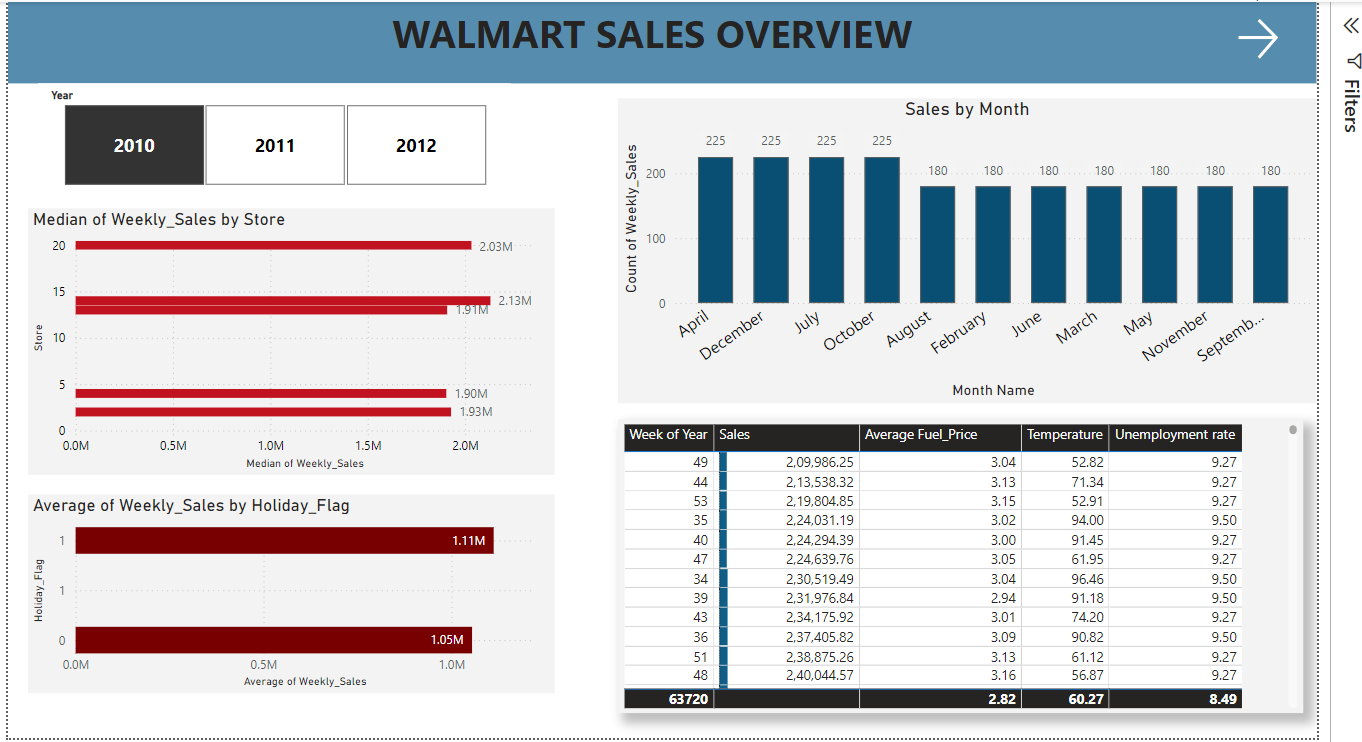
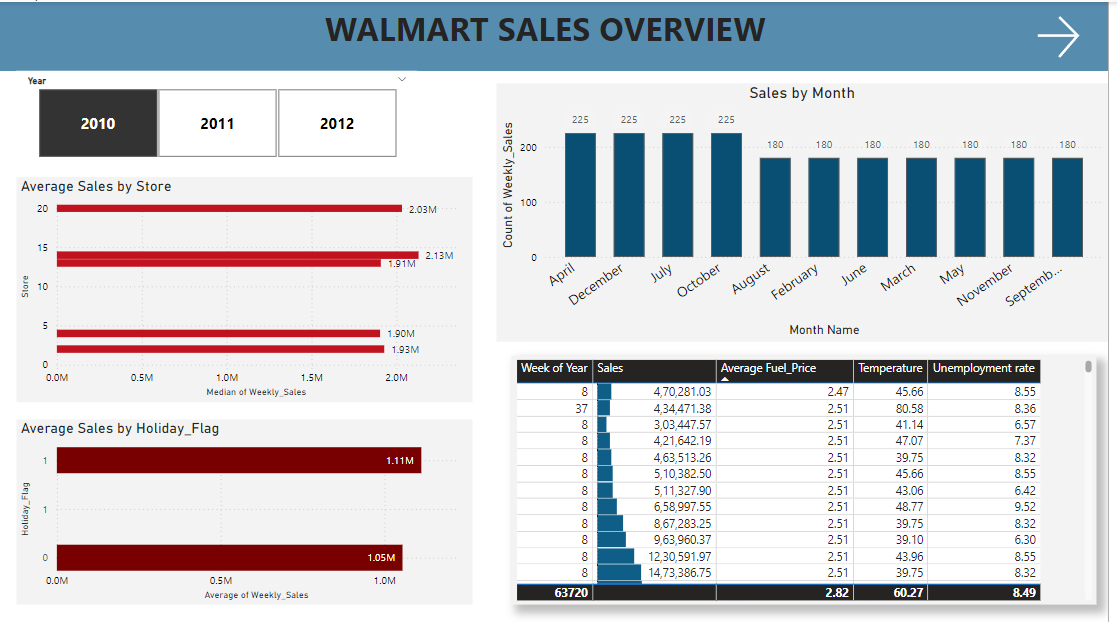
updated file

diff --git a/README.md b/README.md
@@ -1,5 +1,5 @@
 # Azure End-to-End Walmart Sales Forecasting Project
-An ETL pipeline project using Azure Data Factory, Azure SQL, and Power BI for data ingestion, transformation, analysis, and visualization.
+This project focuses on analyzing Walmart's sales data using Azure services to uncover insights into seasonal trends, store performance, and the impact of external factors like holidays, fuel prices, and unemployment rates. By leveraging Azure Data Factory, Azure Data Lake, Azure Databricks, and Power BI, the project supports data-driven decision-making for optimizing sales strategies.
 
 ## **Overview**
 
@@ -13,23 +13,19 @@ This project demonstrates an end-to-end data analytics solution using Azure serv
         | HTTP Data |    +--------->   |  Azure    |    +---------> | Azure         |
         | Ingestion |                  | Data Lake |                | Databricks    |
         | (API)     |                  | Storage   |                | (Data         |
-        |           |                  |           |                | Transformation)|
+        |           |                  |           |                | Analysis & forecasting model)|
         +-----------+                  +-----------+                +---------------+
                                                                            |
                                                                            |
                                     +-----------------+                    |
                                     |                 |                    |
                                     | Data Lake       | <-----------------+
-                                    | Processed Data  |
+                                    |                 |
                                     | Storage         |
                                     +-----------------+
                                             |
                                             v
-                                    +-----------------+
-                                    | Azure Synapse   |
-                                    | Analytics (SQL) |
-                                    | Data Analysis   |
-                                    +-----------------+
+                                    
                                             |
                                             v
                                     +-----------------+
@@ -50,16 +46,16 @@ This project demonstrates an end-to-end data analytics solution using Azure serv
   
 ## **Project Setup and Workflow**
 1. **Data Ingestion:** Raw data is ingested into Azure Data Lake Storage via HTTP API.
-2. **Data Transformation and Analysis:** Data is processed in Azure Databricks and saved back to Data Lake.
-3. **Forcasting Model:** 
+2. **Data Transformation and Analysis:** Exploratory Data Analysis.
+3. **Forcasting Model:** Generated Time series Forecasting Model( Prophet)
 4. **Visualization:** Insights are visualized in Power BI.
    
 
-### 1.Data Ingestion
+## 1.Data Ingestion
 The data is ingested from an HTTP endpoint to Azure Data Lake using Azure Data Factory.
 
 **Data Source**
-The dataset used in this project is a online retail dataset originally downloaded from Kaggle. 
+The dataset used in this project is a Walmart sales data originally downloaded from Kaggle. 
 For this project:
 The dataset was uploaded to a GitHub repository to simulate an HTTP endpoint.
 The data was accessed via the Azure Data Factory HTTP connector and ingested into Azure Data Lake for storage and further processing.
@@ -86,7 +82,7 @@ The data was accessed via the Azure Data Factory HTTP connector and ingested int
 
 [def]: Azure_screenshots/Screenshot_1.png
 
-### 2.Data Transformation and Analysis
+## 2.Data Transformation and Analysis
 After ingesting the data into Azure Data Lake, the next step is accessing the data in Databricks for further processing.
 
 **Steps to Mount Azure Data Lake to Databricks:**
@@ -106,23 +102,23 @@ Utilized the Databricks dbutils.fs.mount() function to mount the Azure Data Lake
 **EDA**
 Performed Exploratory Data Analysis in Azure Databricks to analyze sales patterns, seasonality, and trends.
 
-![Average Weekly Sales BY Holidays:](Azure_screenshots/db_forecast1.png)
-![Weekly Sales Forecast](Azure_screenshots/db_forcast3.png)
+![Average Weekly Sales BY Holidays:](Azure_screenshots/db_forcast1.png)
+![Weekly Sales Forecast](Azure_screenshots/db_forcast2.png)
 
 From the bar chart, it is clear that weekly sales peak during the Christmas holidays, averaging approximately 1.75 million. Among the four holiday weeks, Labor Day records the lowest weekly sales.
 
-![Store Distribution Analysis][def3]
 
-[def3]: Azure_screenshots/newplot.png
+![Weekly Sales Forecast](Azure_screenshots/newplot.png)
+
+
 Store number 20, 4 and 14 has the highest number of sales. This could be dependened on temperature, geographical location,unemployment etc.
 
-![Temperature vs Weekly Sales][def2]
-
+![Weekly Sales Forecast](Azure_screenshots/newplot%20(1).png)
 
 This scatter plot visualizes the relationship between temperature and weekly sales, with the holiday weeks highlighted using a color gradient (Holiday_Flag). The data shows that weekly sales are concentrated across varying temperature ranges, with no strong linear correlation between the two variables. However, holiday weeks (indicated in yellow) show scattered spikes in sales, suggesting that holidays significantly influence weekly sales, independent of temperature variations
-[def2]: Azure_screenshots/newplot(1).png
 
-### 3.Forecasting Model
+
+## 3.Forecasting Model
 Built a time-series forecasting model using Python libraries. Generated a forecast for the next two years at a weekly frequency to help businesses make data-driven decisions for inventory planning and resource allocation..
 ![Weekly Sales Forecast](Azure_screenshots/db_forcast2.png)
  
@@ -141,9 +137,9 @@ Built a time-series forecasting model using Python libraries. Generated a foreca
 - Validate the model through backtesting or cross-validation using historical data.
 
 **Model Execution Pipeline**
-**Purpose:** Automate the execution of the Databricks notebook for forecasting weekly sales.
-**Cluster Type:** Job Cluster in Databricks
-**Output Storage:** The forecated sales data for the next years was saved back to Azure Data Lake.
+- **Purpose:** Automate the execution of the Databricks notebook for forecasting weekly sales.
+- **Cluster Type:** Job Cluster in Databricks
+- **Output Storage:** The forecated sales data for the next years was saved back to Azure Data Lake.
 
 ![Forcasted model pipeline](Azure_screenshots/Screenshot_3.png)
 
@@ -158,10 +154,16 @@ Built a time-series forecasting model using Python libraries. Generated a foreca
 
 ![Pipeline Execution](Azure_screenshots/Screenshot_4.png)
 
-### 4.Visualization
+## 4.Visualization
 
 **PowerBI Dashboard**
-- Imported both historical and forecasted data into Power BI for insights.
+- Create a connection from Azure Datalake to Powerbi and load the data
+- Load both historical and forecasted data into Power BI for insights.
+- Analyse sales trends on months and in each stores
+- Analyse the effect of other factors on weekly sales
+- Visualise the predicted sales
 
 ![Walmart Sales Overview](Azure_screenshots/Screenshot_5.png)
 ![Walmart Sales Prediction](Azure_screenshots/Screenshot_6.png)
+
+## Conclusions and Recommendation
